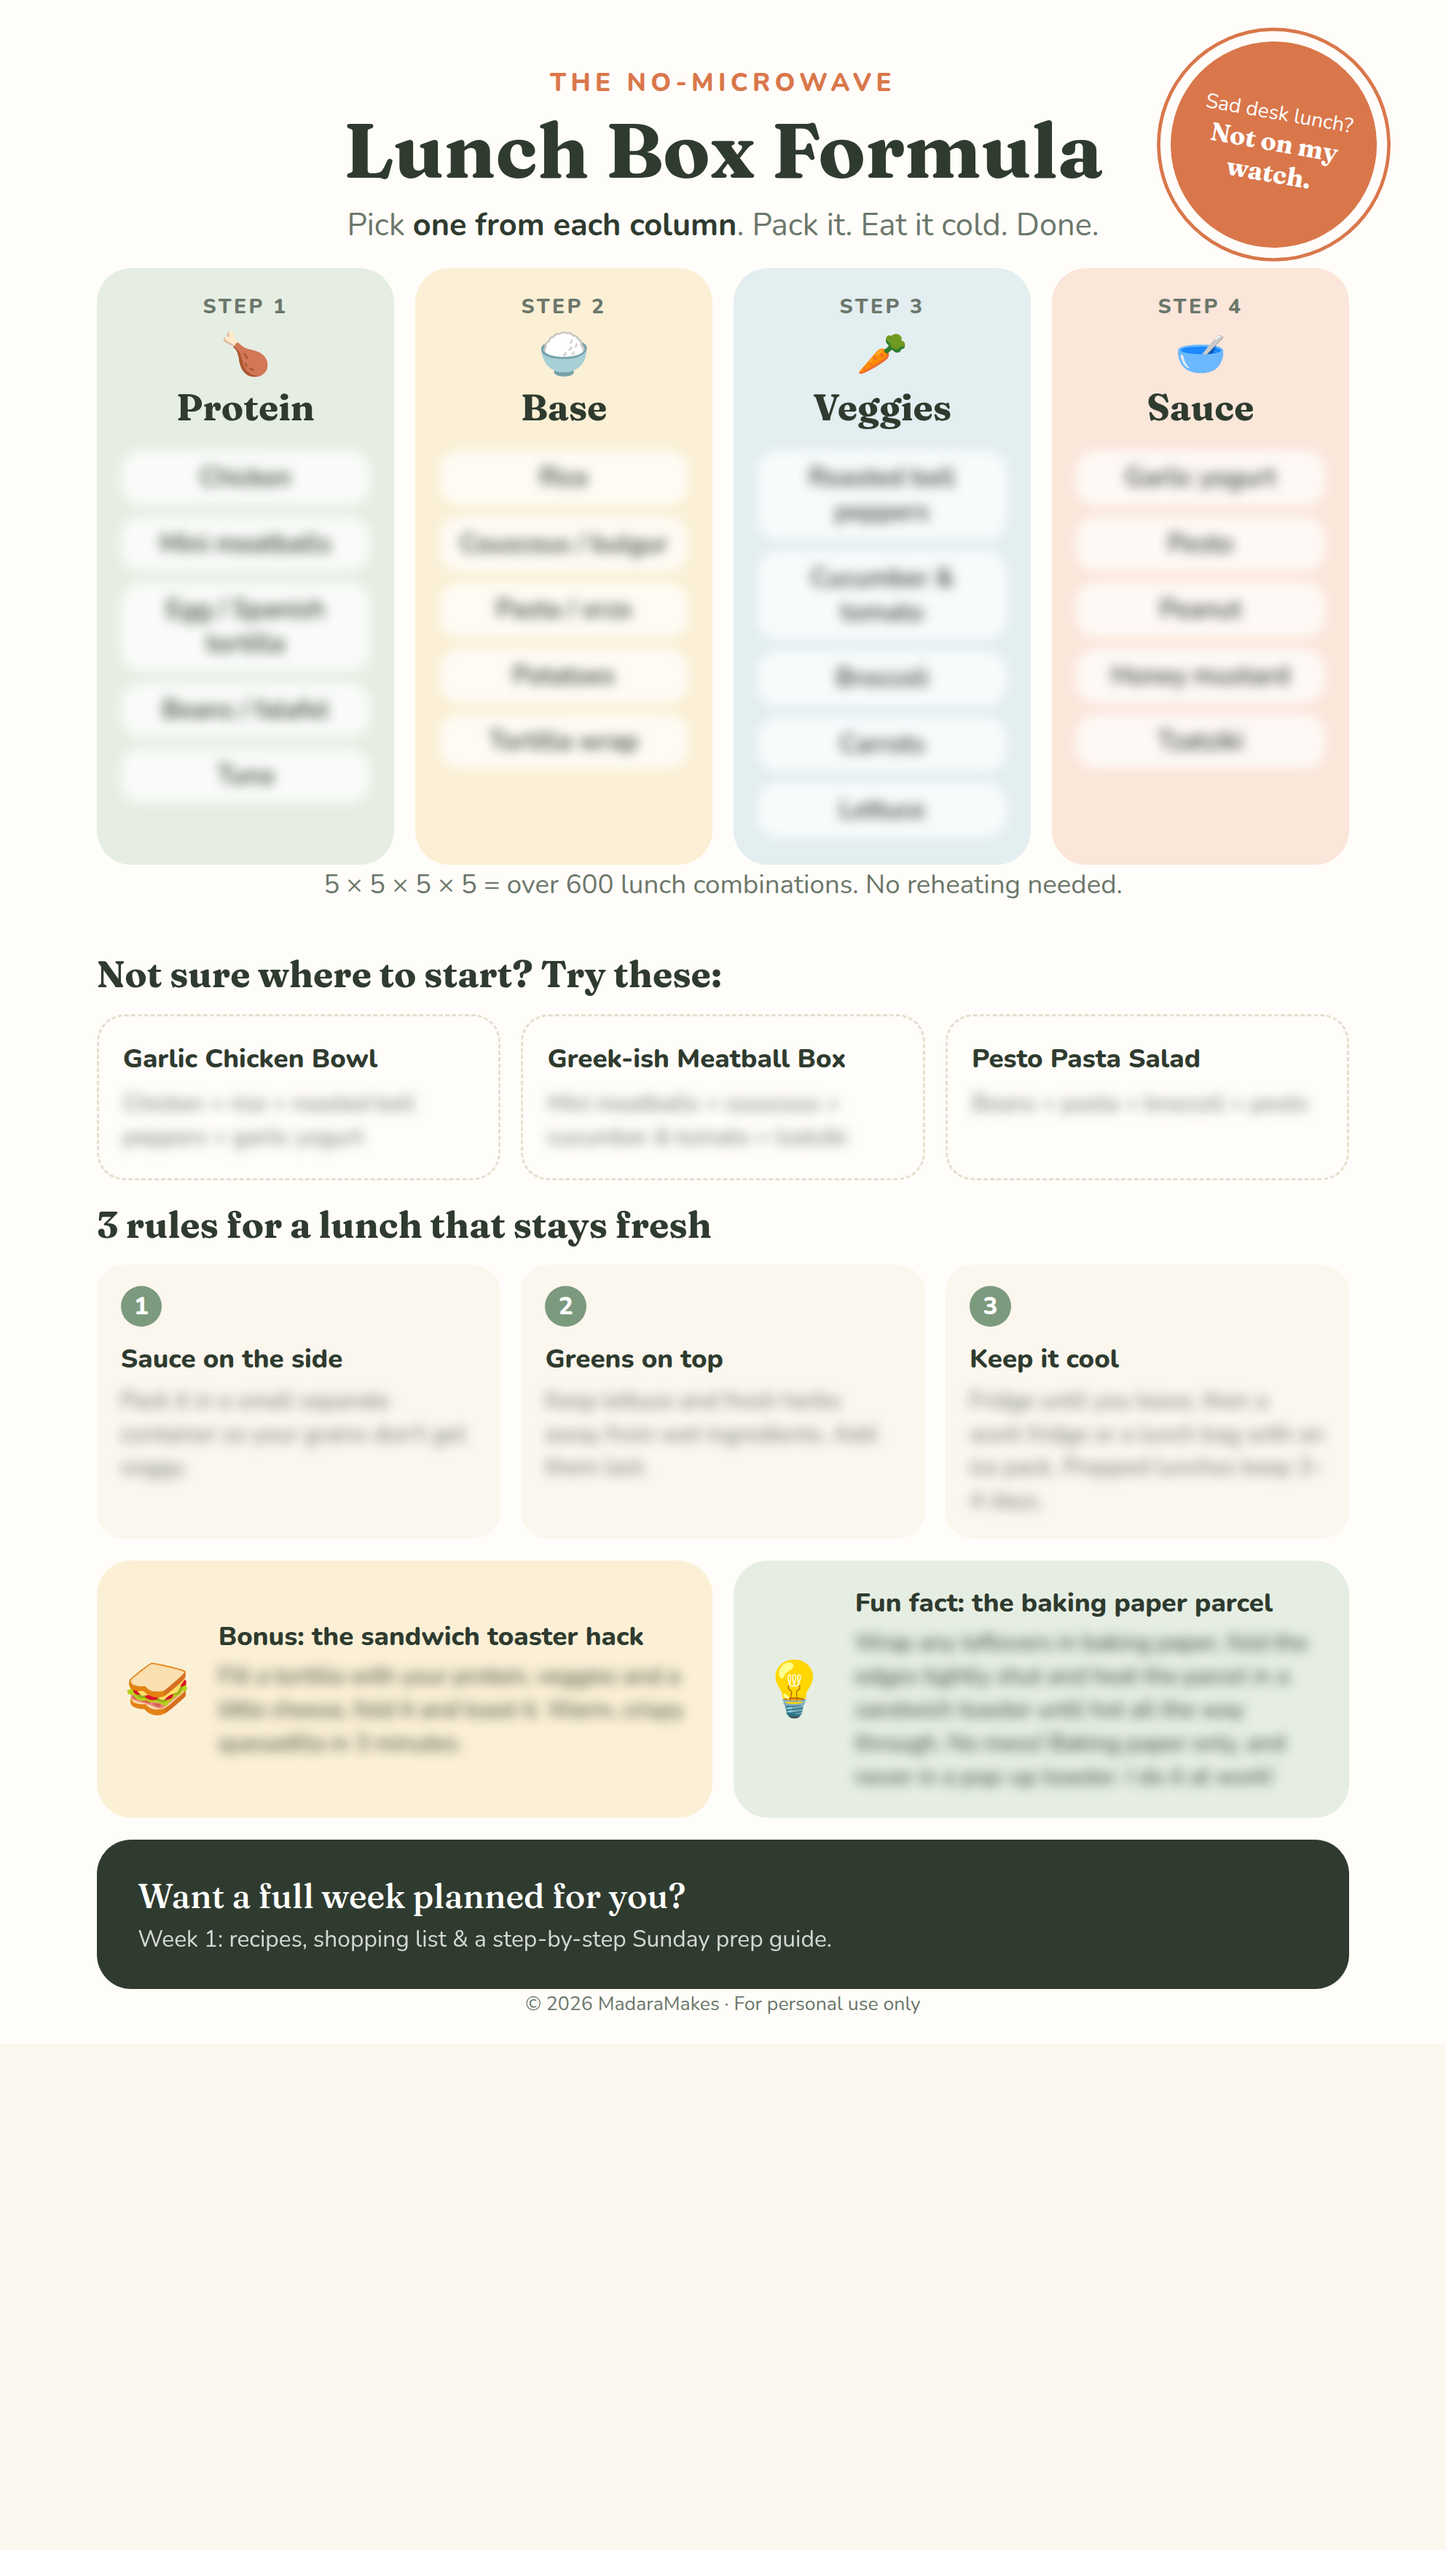
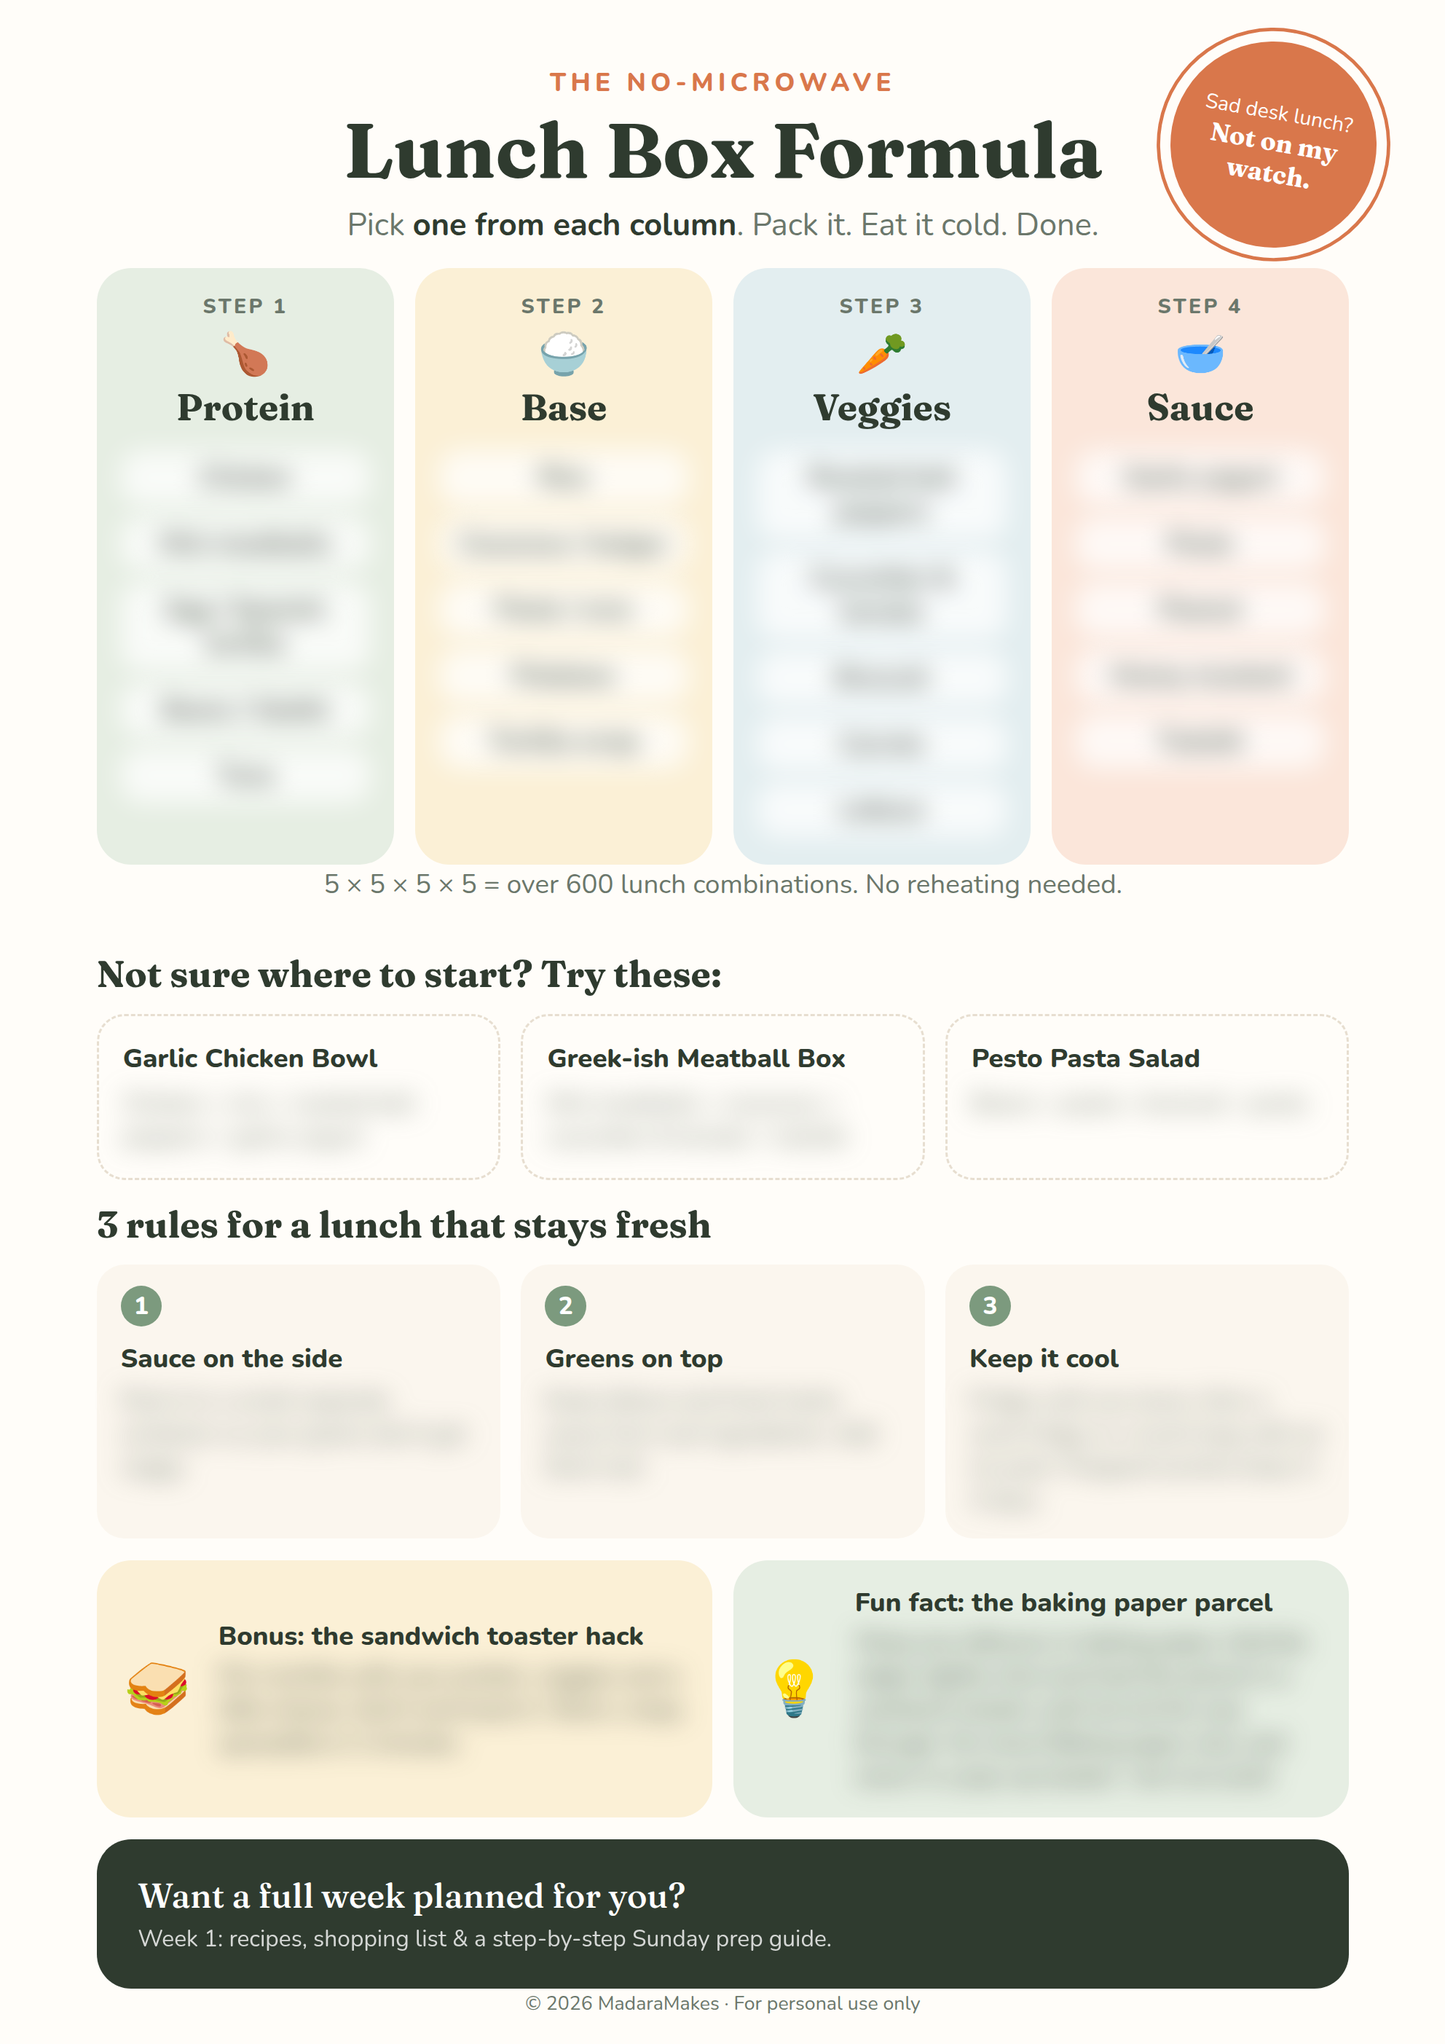
Stronger blur on listing mockup
Claude-Session: https://claude.ai/code/session_01KPPwg3qjQ8qHbGrYntyvxT

diff --git a/freebie/listing/_page-blurred.html b/freebie/listing/_page-blurred.html
@@ -197,7 +197,7 @@
     .hacks { grid-template-columns: 1fr; }
   }
 
-  .col li, .combo .parts, .tip .d, .hack .d { filter: blur(3.2px); }
+  .col li, .combo .parts, .tip .d, .hack .d { filter: blur(7px); }
   .cta { visibility: hidden; }
 </style>
 </head>
